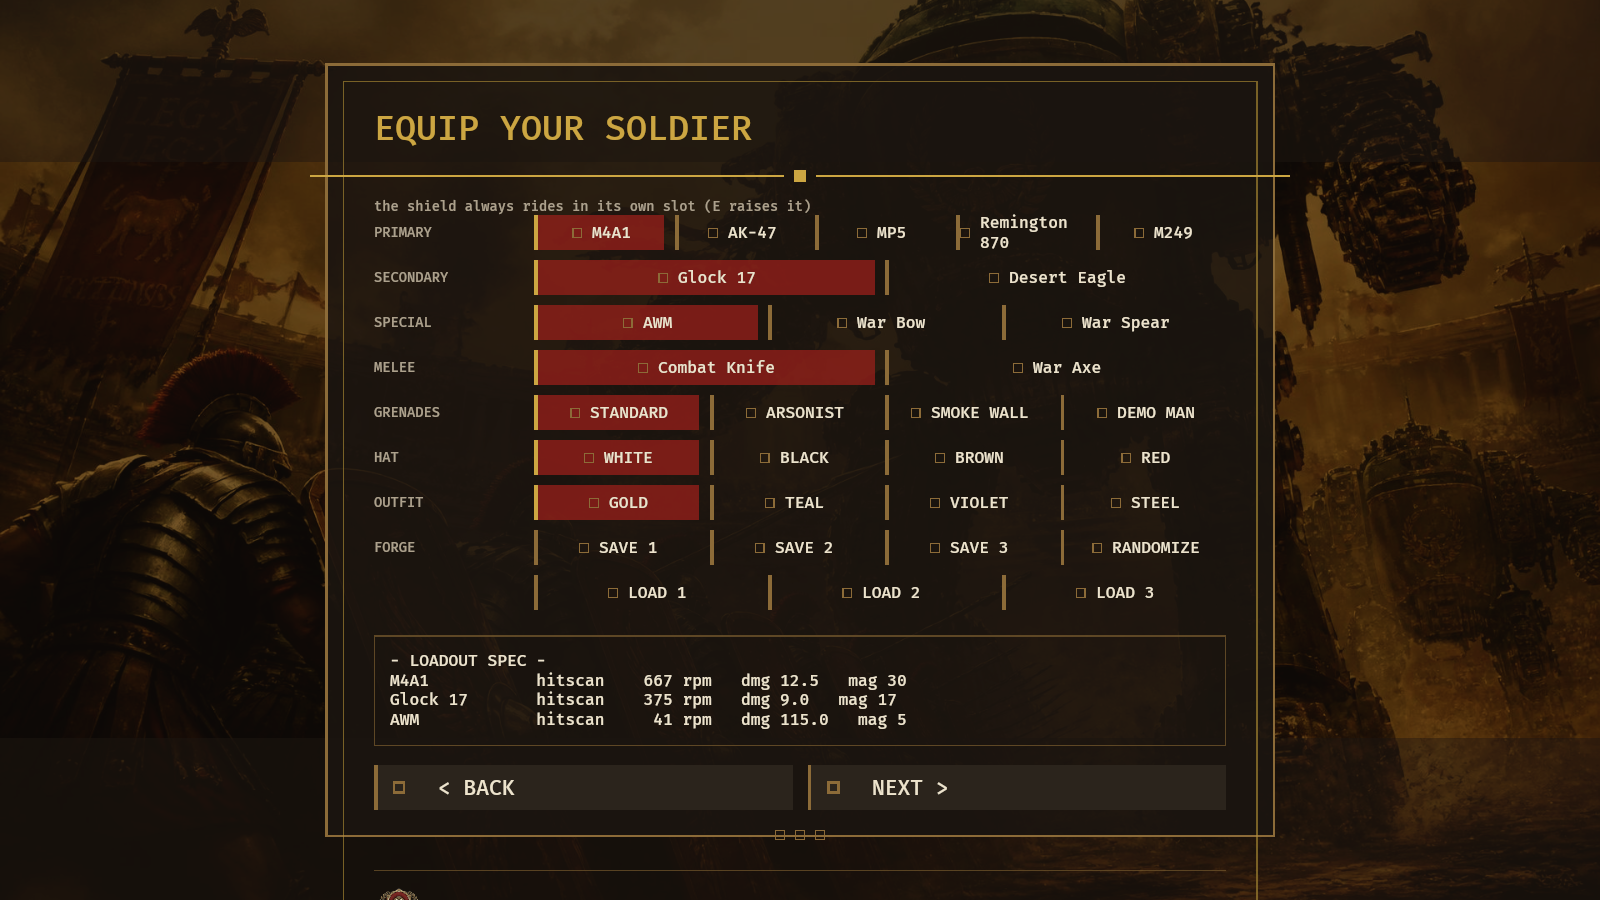
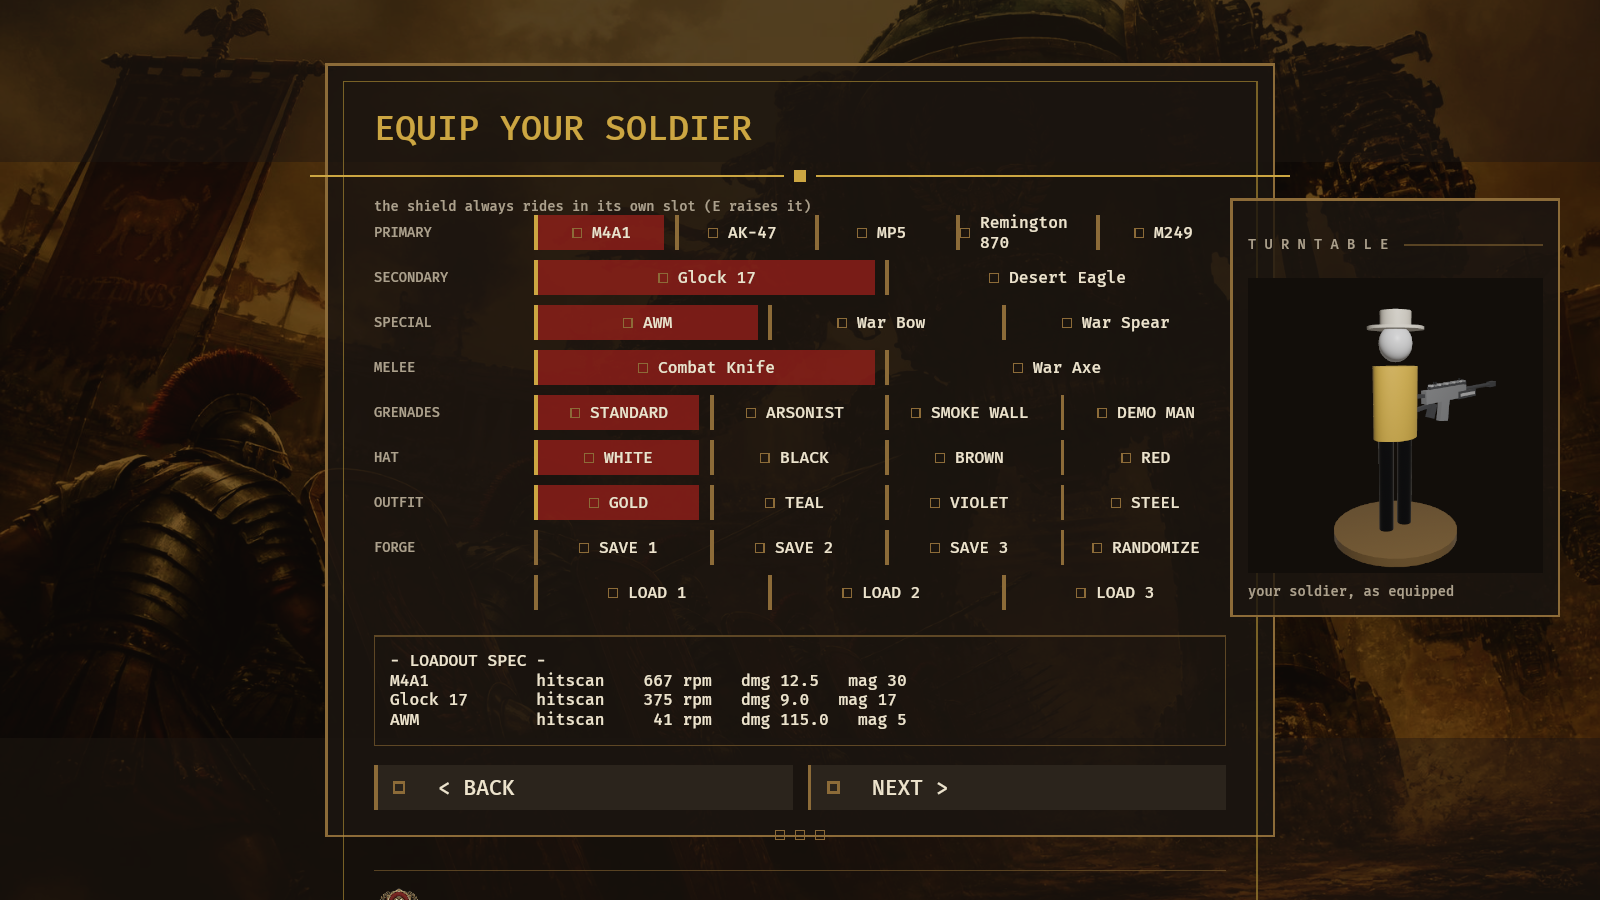
The Forge gets its turntable - the editor finally shows you the soldier
§7.2/§8.2's centrepiece: a live, rotating preview of the kit you are
assembling, rendered on its own layer to a texture the soldier page
frames. Pick a hat and the mannequin's hat recolours; pick a tunic,
same; pick a primary and the weapon on the stand swaps to that model.
The stand turns at 0.55 rad/s, Intro only.

MECHANISM. A stage far under the map - pedestal, mannequin, one
pre-spawned weapon model per kind - on FORGE_PREVIEW_LAYER, filmed by
its own camera (order -2) into a 512px Bgra8UnormSrgb target that a UI
ImageNode displays inside an engraved card. Layer isolation cuts both
ways: the main camera never sees the stage, the stage camera never sees
the world. RenderLayers does not propagate to children in Bevy 0.15, so
the stage tree is stamped once post-flush - the same pattern
tag_viewmodel_layer has always used, for the same reason.

ONE ORDERING TRAP, DODGED BY DESIGN THIS TIME. The card cannot be
spawned inside open_intro: the app boots into Intro and that first
OnEnter runs before setup has built the stage - the exact trap that once
cost the intro its key art. Instead a late-attach system adds the card
whenever an IntroRoot exists without one and the stage is ready. No
ordering to get right at all; the first capture caught the missing card
and the second proves it attached.

The cosmetic materials are unique handles recoloured in place, and the
sync system only runs when Selected actually changes.
[…]

Changed region(s): [[0.7812, 0.2178, 1.0, 0.6844]]

diff --git a/engine/crates/jk_tdm/src/main.rs b/engine/crates/jk_tdm/src/main.rs
@@ -1757,6 +1757,27 @@ const N_WEAPONS: usize = 11;
 /// §2.3: render layer for the first-person viewmodel - seen only by the
 /// dedicated fixed-FOV viewmodel camera, never by the world camera.
 const VIEWMODEL_LAYER: usize = 1;
+/// §7.2/§8.2: the Forge TURNTABLE renders on its own layer, to a texture
+/// the soldier page shows as a UI image. Layer isolation means the main
+/// camera never sees the stage and the stage camera never sees the world.
+const FORGE_PREVIEW_LAYER: usize = 6;
+const FORGE_PREVIEW_PX: u32 = 512;
+/// The stage lives far under the map - irrelevant to rendering (layers
+/// isolate it) but keeps physics/audio/debug tooling from ever tripping
+/// over it.
+const FORGE_STAGE_POS: Vec3 = Vec3::new(300.0, -50.0, 300.0);
+
+/// §7.2: the turntable's handles - the UI image, the rotating stand, one
+/// pre-spawned weapon model per kind, and the two cosmetic materials the
+/// sync system recolours in place.
+#[derive(Resource)]
+struct ForgePreview {
+    image: Handle<Image>,
+    stand: Entity,
+    weapons: [Entity; N_WEAPONS],
+    hat_mat: Handle<StandardMaterial>,
+    tunic_mat: Handle<StandardMaterial>,
+}
 /// Viewmodel camera FOV. §1.2 (Brief VI): CS:GO Classic preset = 68°.
 const VM_FOV_DEG: f32 = 68.0;
 // ---- §1.3 (Brief VI): the no-bounce contract ------------------------------
@@ -4062,6 +4083,7 @@ fn main() {
                 minimap_system,
                 zone_overlay,
                 tag_viewmodel_layer,
+                tag_forge_preview_layer,
             ),
         )
         .init_resource::<DebugZones>()
@@ -4113,6 +4135,9 @@ fn main() {
                 intro_diff_buttons,
                 intro_size_buttons,
                 tech_readout, // §14: live weapon numbers on the loadout
+                forge_preview_spin,
+                forge_preview_sync,
+                attach_turntable_card,
                 forge_keybinds, // §7.2 (Brief VII v2): Ctrl+1/2/3 save, 1/2/3 load
                 lobby_toast,    // ...and where its confirmations appear
             )
@@ -5955,6 +5980,7 @@ fn setup(
     asset_server: Res<AssetServer>,
     mut meshes: ResMut<Assets<Mesh>>,
     mut materials: ResMut<Assets<StandardMaterial>>,
+    mut images: ResMut<Assets<Image>>,
 ) {
     let game = Game {
         sim: TdmSim::new(MatchConfig::default()),
@@ -6114,6 +6140,133 @@ fn setup(
     let red = materials.add(unlit(Color::srgb(0.92, 0.18, 0.15)));
     commands.insert_resource(BarAssets { green, orange, red });
     commands.insert_resource(kit.clone());
+
+    // ---- §7.2 the Forge turntable stage --------------------------------
+    // A mannequin on a slowly turning pedestal, lit and filmed by its own
+    // camera into a texture. The soldier page frames that texture, so the
+    // player SEES the kit they are assembling - the piece that turns the
+    // Forge from a save file into an editor.
+    {
+        use bevy::render::camera::RenderTarget;
+        use bevy::render::render_resource::{
+            Extent3d, TextureDescriptor, TextureDimension, TextureFormat, TextureUsages,
+        };
+        let size = Extent3d {
+            width: FORGE_PREVIEW_PX,
+            height: FORGE_PREVIEW_PX,
+            depth_or_array_layers: 1,
+        };
+        let mut target = Image {
+            texture_descriptor: TextureDescriptor {
+                label: Some("forge_turntable"),
+                size,
+                dimension: TextureDimension::D2,
+                format: TextureFormat::Bgra8UnormSrgb,
+                mip_level_count: 1,
+                sample_count: 1,
+                usage: TextureUsages::TEXTURE_BINDING
+                    | TextureUsages::COPY_DST
+                    | TextureUsages::RENDER_ATTACHMENT,
+                view_formats: &[],
+            },
+            ..default()
+        };
+        target.resize(size);
+        let image = images.add(target);
+
+        // the stage's own camera - renders BEFORE the main pass
+        commands.spawn((
+            Camera3d::default(),
+            Camera {
+                target: RenderTarget::Image(image.clone()),
+                order: -2,
+                clear_color: ClearColorConfig::Custom(Color::srgb(0.07, 0.055, 0.04)),
+                ..default()
+            },
+            Transform::from_translation(FORGE_STAGE_POS + Vec3::new(1.5, 1.35, 2.1))
+                .looking_at(FORGE_STAGE_POS + Vec3::new(0.0, 0.85, 0.0), Vec3::Y),
+            RenderLayers::layer(FORGE_PREVIEW_LAYER),
+        ));
+        commands.spawn((
+            PointLight {
+                intensity: 300_000.0,
+                range: 12.0,
+                ..default()
+            },
+            Transform::from_translation(FORGE_STAGE_POS + Vec3::new(1.6, 2.6, 1.4)),
+            RenderLayers::layer(FORGE_PREVIEW_LAYER),
+        ));
+
+        // unique cosmetic materials the sync system recolours in place
+        let hat_mat = materials.add(metal(Color::srgb(0.92, 0.90, 0.85), 0.0, 0.5));
+        let tunic_mat = materials.add(metal(Color::srgb(0.80, 0.65, 0.26), 0.0, 0.55));
+        let shell = materials.add(metal(Color::srgb_u8(0xED, 0xEE, 0xF0), 0.0, 0.42));
+        let dark = materials.add(metal(Color::srgb_u8(0x17, 0x19, 0x1D), 0.85, 0.22));
+        let bronze_ped = materials.add(metal(Color::srgb(0.55, 0.42, 0.22), 0.3, 0.5));
+
+        // the STAND - everything on it rotates together
+        let stand = commands
+            .spawn((
+                Transform::from_translation(FORGE_STAGE_POS),
+                Visibility::default(),
+            ))
+            .id();
+        let part = |commands: &mut Commands,
+                    mesh: Handle<Mesh>,
+                    mat: Handle<StandardMaterial>,
+                    tr: Vec3,
+                    sc: Vec3| {
+            let e = commands
+                .spawn((
+                    Mesh3d(mesh),
+                    MeshMaterial3d(mat),
+                    Transform {
+                        translation: tr,
+                        rotation: Quat::IDENTITY,
+                        scale: sc,
+                    },
+                ))
+                .set_parent(stand)
+                .id();
+            e
+        };
+        // pedestal
+        part(&mut commands, kit.cyl.clone(), bronze_ped, Vec3::new(0.0, 0.03, 0.0), Vec3::new(0.95, 0.06, 0.95));
+        // mannequin: legs / torso in TUNIC / head / HAT crown + brim
+        part(&mut commands, kit.cyl.clone(), dark.clone(), Vec3::new(-0.09, 0.42, 0.0), Vec3::new(0.11, 0.72, 0.11));
+        part(&mut commands, kit.cyl.clone(), dark.clone(), Vec3::new(0.09, 0.42, 0.0), Vec3::new(0.11, 0.72, 0.11));
+        part(&mut commands, kit.cyl.clone(), tunic_mat.clone(), Vec3::new(0.0, 1.02, 0.0), Vec3::new(0.36, 0.52, 0.26));
+        part(&mut commands, kit.ball.clone(), shell, Vec3::new(0.0, 1.44, 0.0), Vec3::new(0.24, 0.26, 0.24));
+        part(&mut commands, kit.cyl.clone(), hat_mat.clone(), Vec3::new(0.0, 1.60, 0.0), Vec3::new(0.22, 0.12, 0.22));
+        part(&mut commands, kit.cyl.clone(), hat_mat.clone(), Vec3::new(0.0, 1.545, 0.0), Vec3::new(0.40, 0.02, 0.40));
+        // one weapon model per kind, held out beside the mannequin; the
+        // sync system shows the selected primary and hides the rest
+        let mut weapons = [Entity::PLACEHOLDER; N_WEAPONS];
+        for (wi, wk) in ALL_WEAPONS.into_iter().enumerate() {
+            let model = spawn_weapon_model(&mut commands, &kit, wk, true, false);
+            commands
+                .entity(model)
+                .insert((
+                    Transform {
+                        translation: Vec3::new(0.44, 1.02, 0.0),
+                        // side-on, slightly raked - a display pose
+                        rotation: Quat::from_rotation_y(FRAC_PI_2)
+                            * Quat::from_rotation_x(-0.06),
+                        scale: Vec3::splat(1.15),
+                    },
+                    Visibility::Hidden,
+                ))
+                .set_parent(stand);
+            weapons[wi] = model;
+        }
+        commands.insert_resource(ForgePreview {
+            image,
+            stand,
+            weapons,
+            hat_mat,
+            tunic_mat,
+        });
+    }
 
     // ---- shot / impact FX pools ----------------------------------------
     commands.insert_resource(FxAssets {
@@ -9846,6 +9999,146 @@ fn camera_system(
 /// walk the viewmodel hierarchy once (after the spawn flush) and stamp
 /// every descendant onto the viewmodel layer so only the fixed-FOV
 /// viewmodel camera renders it.
+#[derive(Component)]
+struct TurntableCard;
+
+/// §7.2: attach the turntable card to the intro AFTER both exist.
+///
+/// It cannot be spawned inside `open_intro`: the app boots into Intro and
+/// that first `OnEnter` runs before `setup` has built the stage - the
+/// same startup-ordering trap that once cost the intro its key art. A
+/// late attach needs no ordering at all: whenever an IntroRoot exists
+/// with no card and the stage is ready, the card appears.
+fn attach_turntable_card(
+    mut commands: Commands,
+    fp: Option<Res<ForgePreview>>,
+    intro: Query<Entity, With<IntroRoot>>,
+    existing: Query<(), With<TurntableCard>>,
+) {
+    let Some(fp) = fp else { return };
+    if !existing.is_empty() {
+        return;
+    }
+    let Ok(root) = intro.get_single() else { return };
+    commands.entity(root).with_children(|p| {
+        p.spawn((
+            Node {
+                position_type: PositionType::Absolute,
+                right: Val::Percent(2.5),
+                top: Val::Percent(22.0),
+                width: Val::Px(264.0),
+                flex_direction: FlexDirection::Column,
+                border: UiRect::all(Val::Px(menu_ui::RULE_STAMP_PX)),
+                padding: UiRect::all(Val::Px(menu_ui::U3)),
+                row_gap: Val::Px(menu_ui::U2),
+                ..default()
+            },
+            BackgroundColor(menu_ui::shadow_a(menu_ui::PLATE_A)),
+            BorderColor(branding::palette::BRONZE),
+            BorderRadius::ZERO,
+            ZIndex(menu_ui::ZL_PLATE),
+            OnIntroPage(IntroPage::SOLDIER),
+            TurntableCard,
+        ))
+        .with_children(|card| {
+            menu_ui::eyebrow(card, "TURNTABLE");
+            card.spawn((
+                Node {
+                    width: Val::Px(236.0),
+                    height: Val::Px(236.0),
+                    border: UiRect::all(Val::Px(menu_ui::RULE_HAIR_PX)),
+                    ..default()
+                },
+                BorderColor(menu_ui::gold_a(menu_ui::FRAME_INNER_A)),
+                ImageNode {
+                    image: fp.image.clone(),
+                    ..default()
+                },
+            ));
+            card.spawn((
+                Text::new("your soldier, as equipped"),
+                TextFont {
+                    font_size: menu_ui::T_MICRO,
+                    ..default()
+                },
+                TextColor(branding::palette::PARCHMENT_DIM),
+            ));
+        });
+    });
+}
+
+/// §7.2: stamp the whole turntable stage onto its layer once the spawn
+/// flush has run - RenderLayers does not propagate to children in Bevy
+/// 0.15, the same reason `tag_viewmodel_layer` below exists.
+fn tag_forge_preview_layer(
+    mut done: Local<bool>,
+    mut commands: Commands,
+    fp: Res<ForgePreview>,
+    children: Query<&Children>,
+) {
+    if *done {
+        return;
+    }
+    let mut stack = vec![fp.stand];
+    let mut count = 0usize;
+    while let Some(e) = stack.pop() {
+        commands
+            .entity(e)
+            .insert(RenderLayers::layer(FORGE_PREVIEW_LAYER));
+        count += 1;
+        if let Ok(ch) = children.get(e) {
+            stack.extend(ch.iter().copied());
+        }
+    }
+    if count > 1 {
+        *done = true;
+    }
+}
+
+/// §7.2: the turntable TURNS. Intro only - the stage is invisible
+/// everywhere else, so spinning it would be free but pointless.
+fn forge_preview_spin(
+    time: Res<Time>,
+    fp: Res<ForgePreview>,
+    mut q: Query<&mut Transform>,
+) {
+    if let Ok(mut tf) = q.get_mut(fp.stand) {
+        tf.rotate_y(0.55 * time.delta_secs());
+    }
+}
+
+/// §7.2: the mannequin WEARS the current picks. Hat and tunic recolour
+/// their unique materials in place; the weapon rack shows the selected
+/// primary and hides the rest.
+fn forge_preview_sync(
+    sel: Res<Selected>,
+    fp: Res<ForgePreview>,
+    mut materials: ResMut<Assets<StandardMaterial>>,
+    mut vis: Query<&mut Visibility>,
+) {
+    if !sel.is_changed() {
+        return;
+    }
+    let (_, (hr, hg, hb)) = HAT_CHOICES[sel.hat % HAT_CHOICES.len()];
+    if let Some(mat) = materials.get_mut(&fp.hat_mat) {
+        mat.base_color = Color::srgb(hr, hg, hb);
+    }
+    let (_, (tr, tg, tb)) = TUNIC_CHOICES[sel.tunic % TUNIC_CHOICES.len()];
+    if let Some(mat) = materials.get_mut(&fp.tunic_mat) {
+        mat.base_color = Color::srgb(tr, tg, tb);
+    }
+    let show = ALL_WEAPONS.iter().position(|w| *w == sel.loadout[0]);
+    for (wi, e) in fp.weapons.iter().enumerate() {
+        if let Ok(mut v) = vis.get_mut(*e) {
+            *v = if Some(wi) == show {
+                Visibility::Visible
+            } else {
+                Visibility::Hidden
+            };
+        }
+    }
+}
+
 fn tag_viewmodel_layer(
     mut done: Local<bool>,
     mut commands: Commands,
